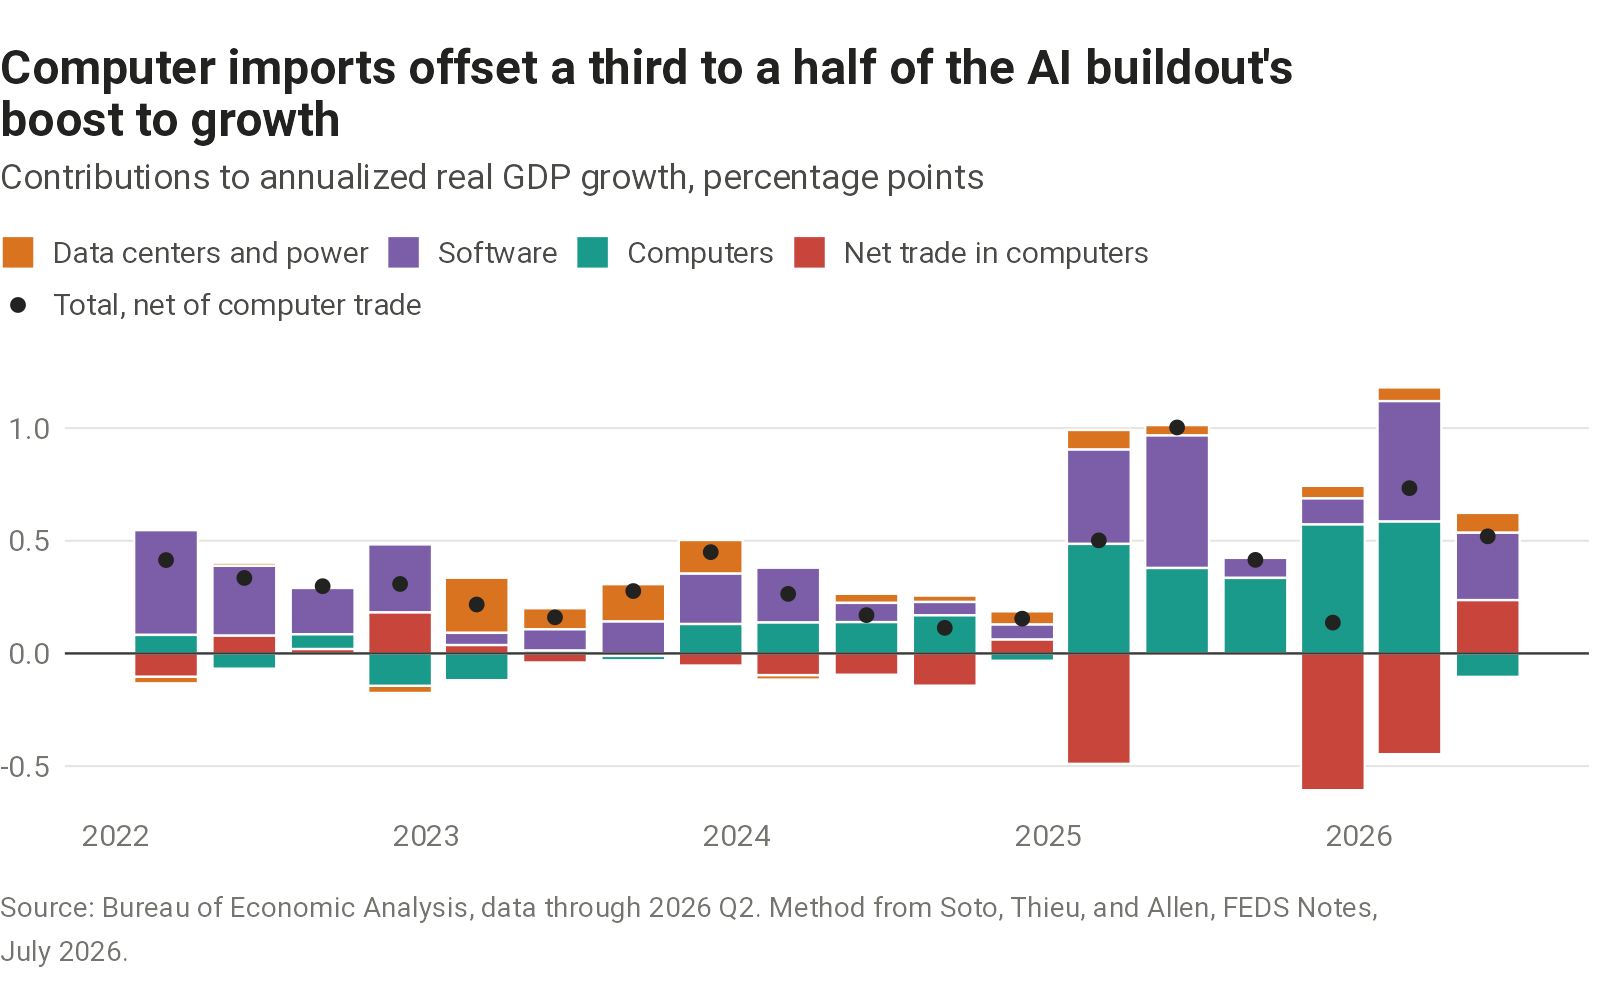
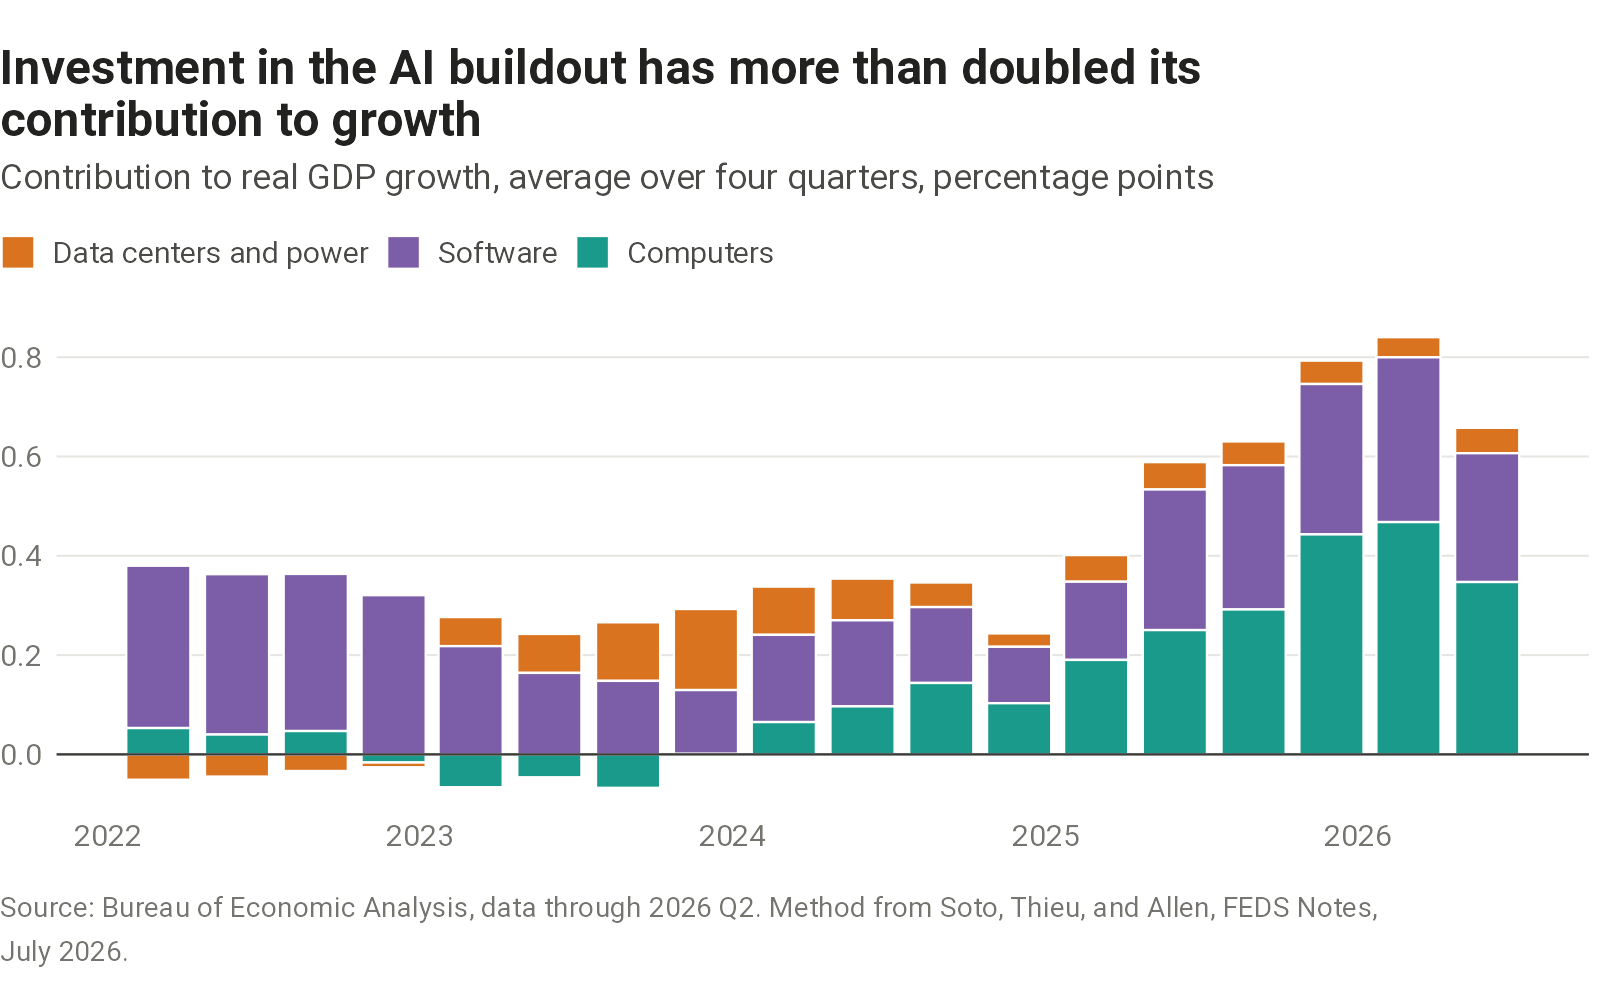
Split the AI investment chart into contribution and imports charts
One chart shows the buildout adding to growth by component; the other
shows how much netting imported computers takes off, with the range
across the three import assumptions. Both use four-quarter averages to
match the text.

Claude-Session: https://claude.ai/code/session_01C4kQtTHdakDNHHerQuEFwM

diff --git a/charts/ai-investment-gdp/spec.md b/charts/ai-investment-gdp/spec.md
@@ -1,6 +1,6 @@
 # AI-related investment's contribution to GDP growth
 
-Status: built in R from BEA data fetched on 2026-09-26, through 2026 Q2. Reproduces the published figure exactly under the FEDS method. Title is a draft for review.
+Status: built in R from BEA data fetched on 2026-09-26, through 2026 Q2. Reproduces the published figure exactly under the FEDS method. Two charts: the contribution by component (`ai-investment-gdp`) and the contribution before and after netting imported computers (`ai-investment-imports`). Titles are drafts for review.
 
 ## Question
 
@@ -56,7 +56,10 @@ For computer trade, the lagged share is multiplied by the capital goods share of
 
 Net contribution = software + computers + data centers + power + net exports of computers.
 
-The chart combines data centers and power into one bar. The CSV keeps them separate.
+Both charts plot four-quarter averages of these quarterly contributions.
+
+- Component chart: software, computers, and data centers and power (combined into one bar; the CSV keeps them separate). Net trade in computers is left to the second chart.
+- Imports chart: the gross total, the net total under the FEDS method, and a band from the lowest to the highest net total across the FEDS method, the BEA domestic-use trade weight, and computer trade deflated with the investment price.
 
 ## Vintages
 
@@ -166,3 +169,4 @@ As of 2026-09-26. Not yet decided or done.
 - 2026-09-26: Checked how BEA treats chips and solid-state drives. They are not in equipment investment, so netting all semiconductor trade would overstate the offset. The proposal to deviate from the FEDS Note by adding semiconductors is on hold.
 - 2026-09-26: The text above the chart opens with the general point, that AI investment has lifted growth over the past two years but headline figures overstate it because of imports. Check that wording on each refresh.
 - 2026-09-26: The text names the four components rather than calling the total "AI investment", since they also carry spending unrelated to AI: the same components added about 0.3 point a year to growth in 2022 and 2023. The chart subtitle drops "AI-related" for the same reason.
+- 2026-09-26: Split into two charts, one per point: the buildout is adding to growth, and imports make the headline overstate it. Both use four-quarter averages, which match the text, instead of quarterly bars, which swing too much to read the trend. This replaces the earlier decision to show quarterly contributions as the note does; `reproduce.R` still checks the quarterly figures. Titles: "Investment in the AI buildout has more than doubled its contribution to growth" (0.66 point over the four quarters through 2026 Q2 against 0.29 through 2023 Q4) and "Net of imported computers, the boost is 30 to 50 percent smaller" (computed from the data). Check the first title's "more than doubled" on each refresh.

diff --git a/charts/ai-investment-gdp/output/ai-investment-gdp-lead.md b/charts/ai-investment-gdp/output/ai-investment-gdp-lead.md
@@ -1,1 +1,1 @@
-Investment in software, computers, data centers, and power—the spending that carries the AI buildout—has lifted real GDP growth over the past two years, but by less than headline figures suggest because many of the computers are imported. Over the past four quarters, this investment added 0.66 percentage point to real GDP growth of 2.1 percent. Net of imported computers and parts, it added 0.45 point, and as little as 0.34 under other reasonable assumptions. In 2022 and 2023, before the buildout, the same investment added about 0.3 point, mostly from software.
+Investment in software, computers, data centers, and power<e2><80><94>the spending that carries the AI buildout<e2><80><94>has lifted real GDP growth over the past two years. Over the past four quarters, it added 0.66 percentage point to growth of 2.1 percent, more than double its contribution in 2023. Almost all of the increase came from computers.

diff --git a/charts/ai-investment-gdp/output/ai-investment-imports-notes.md b/charts/ai-investment-gdp/output/ai-investment-imports-notes.md
@@ -1,0 +1,13 @@
+::: {.chart-notes}
+
+**Before netting imports:** Software, computers, data centers, and power, as in the chart above.
+
+**Net of imported computers:** Subtracts computer imports minus exports, counting only the share that goes to business.
+
+**Range under other assumptions:** Estimates that share from U.S. computer spending, or prices imports like the computers businesses buy.
+
+::: {.chart-source}
+Source: Bureau of Economic Analysis, through 2026 Q2. Method from Soto, Thieu, and Allen, ["The AI Buildout and the Economy"](https://www.federalreserve.gov/econres/notes/feds-notes/the-ai-buildout-and-the-economy-publicly-available-data-to-assess-ais-impact-20260717.html), FEDS Notes, July 2026. [Download the data (CSV)](charts/ai-investment-gdp/output/ai-investment-imports.csv)
+:::
+
+:::

diff --git a/charts/ai-investment-gdp/output/ai-investment-gdp-notes.md b/charts/ai-investment-gdp/output/ai-investment-gdp-notes.md
@@ -4,9 +4,7 @@
 
 **Software:** Business spending on software.
 
-**Computers:** Business spending on computers and related equipment.
-
-**Net trade in computers:** Computer exports minus imports, counting the share that goes to business.
+**Computers:** Business spending on computers and related equipment, including imported ones.
 
 ::: {.chart-source}
 Source: Bureau of Economic Analysis, through 2026 Q2. Method from Soto, Thieu, and Allen, ["The AI Buildout and the Economy"](https://www.federalreserve.gov/econres/notes/feds-notes/the-ai-buildout-and-the-economy-publicly-available-data-to-assess-ais-impact-20260717.html), FEDS Notes, July 2026. [Download the data (CSV)](charts/ai-investment-gdp/output/ai-investment-gdp.csv)

diff --git a/charts/ai-investment-gdp/output/ai-investment-imports-lead.md b/charts/ai-investment-gdp/output/ai-investment-imports-lead.md
@@ -1,0 +1,1 @@
+Headline figures overstate the boost because many of the computers are imported. Net of imported computers and parts, the contribution over the past four quarters was 0.45 point, and as little as 0.34 under other reasonable assumptions. Before the buildout, imports made little difference: in 2023 the contribution was 0.3 point before and after netting them.
